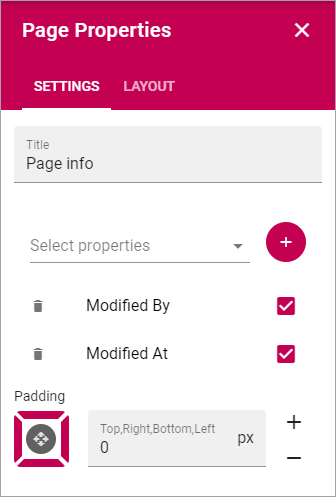
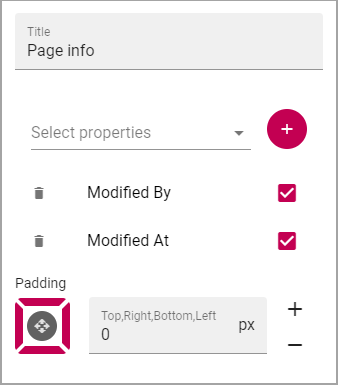
Many settings images updated in Block descriptions

diff --git a/blocks/text/index.rst b/blocks/text/index.rst
@@ -14,7 +14,7 @@ Settings
 *********
 The following settings are available for the block:
 
-.. image:: text-settings.png
+.. image:: text-settings-new.png
 
 + **Title**: To add a title for the block, type the title here.
 + **Property to store data**: Select type of text to be used in this block; Title, Page Content or Page Summary. When one block on the page has data connected to a Property, that data can be reused in all blocks that uses the same Property. Page scoped. Not mandatory.
@@ -22,6 +22,7 @@ The following settings are available for the block:
 
 .. image:: text-setting-format.png
 
++ **Enable Machine Translation**: (A descirption will be added soon.)
 + **Help text**: Here you can add a help text for the editor, for example to make it clear what kind of content should be added to the block. The help text is shown when no content is added, and when the block is edited. The help text is never shown to users as it's not shown for a published version of the page.
 
 Here's an example of help text:

diff --git a/blocks/user-profile-completion/index.rst b/blocks/user-profile-completion/index.rst
@@ -9,7 +9,11 @@ The user can click "Strengthen Profile" to add additional information.
 
 Settings
 ***********************
-The settings available for the block are general settings only, through the Layout and Advanced tabs, see: :doc:`General Block Settings </blocks/general-block-settings/index>`
+The settings available for the block are general settings only, through the Layout and Advanced tabs:
+
+.. image:: user-profile-settings.png
+
+For information about the general settings, see: :doc:`General Block Settings </blocks/general-block-settings/index>`
 
 All settings for the Strengthen Profile content are done in Omnia Admin, see: :doc:`User Profile Settings </admin-settings/tenant-settings/user-profile-completion/index>`
 

diff --git a/blocks/search/index.rst b/blocks/search/index.rst
@@ -5,10 +5,10 @@ The Advanced Search block adds the same search functionality as the Advaced Sear
 
 .. image:: advanced-search-result.png
 
-Regarding settings, the general block settings found under the Layout tab are available:
+Settings
+**********
+You can add a title for the block if needed:
 
-.. image:: advanced-search-settings-block.png
+.. image:: advanced-search-settings-block-new.png
 
-Layout and Advanced
-**********************
 The tabs Layout and Advanced contain general settings, see: :doc:`General Block Settings </blocks/general-block-settings/index>`

diff --git a/blocks/related-links/index.rst b/blocks/related-links/index.rst
@@ -9,7 +9,12 @@ Here's an example of how users will see related links:
 
 Settings
 *********
-(Will be added in just a moment).
+The following settings are available for the block:
+
+.. image:: related-links-settings.png
+
++ **Title**: To add a title for the block, type the title here.
++ **Property to store data**: Select property from the list. When one block on the page has data connected to a property, that data can be reused in all blocks that uses the same property. Page scoped. Not mandatory.
 
 Layout and Advanced
 ---------------------

diff --git a/blocks/page-properties/index.rst b/blocks/page-properties/index.rst
@@ -7,7 +7,7 @@ Use this block to show information about the page, for example when it was last 
 
 The following settings are available for the block:
 
-.. image:: page-properties-settings.png
+.. image:: page-properties-settings-new.png
 
 + **Title**: You can add a title for the block here.
 + **Select Properties**: Use the list the select properties for the information you want to display. Click the plus to add the property, and make sure it's selected.

diff --git a/blocks/variation-selector/index.rst b/blocks/variation-selector/index.rst
@@ -11,7 +11,7 @@ The block will simply show a list of the available Page Variations when opened.
 
 The only setting that can be done for the block is this:
 
-.. image:: page-variation-setting.png
+.. image:: page-variation-setting-new.png
 
 + **Hide if no variations exist for the page**: This option is selected by default. If you want the block to always be shown, even if no Page Variations exists (yet), deselect this option.
 

diff --git a/blocks/people-rollup/index.rst b/blocks/people-rollup/index.rst
@@ -1,13 +1,13 @@
 People Rollup
 ===========================================
 
-**Note! This description is just started. More will be added soon.**
+Use this block to display lists of people, for many various reasons.
 
 Settings
 *************************
 The following settings are available:
 
-.. image:: peoplerollup-settings.png
+.. image:: peoplerollup-settings-new.png
 
 General
 ----------------

diff --git a/blocks/team-news-rollup/index.rst b/blocks/team-news-rollup/index.rst
@@ -7,7 +7,7 @@ Settings
 *********
 The following settings are available:
 
-.. image:: team-news-rollup-settings.png
+.. image:: team-news-rollup-settings-new.png
 
 + **Title**: You can add a title to be shown for the block.
 + **Row Limit**: Decide the number of rows to show for each "page" of the list.

diff --git a/blocks/rss-reader/index.rst b/blocks/rss-reader/index.rst
@@ -15,7 +15,7 @@ The following settings can be used:
 
 Start by selecting "Display" and the rest of the settings will be shown. 
 
-.. image:: rss-reader-settings-1.png
+.. image:: rss-reader-settings-new.png
 
 The following settings are available:
 

diff --git a/blocks/team-collaboration-rollup/index.rst b/blocks/team-collaboration-rollup/index.rst
@@ -15,7 +15,7 @@ Settings
 ************************
 The following settings are available for the block:
 
-.. image:: team-collaboration-block-settings.png
+.. image:: team-collaboration-block-settings-new.png
 
 Query
 --------

diff --git a/blocks/quick-links/index.rst b/blocks/quick-links/index.rst
@@ -9,7 +9,7 @@ Settings
 *********
 The following settings are available for the block:
 
-.. image:: quick-links-settings.png
+.. image:: quick-links-settings-new.png
 
 General
 --------

diff --git a/blocks/task-rollup/index.rst b/blocks/task-rollup/index.rst
@@ -11,7 +11,7 @@ Settings
 *********
 The following settings are available:
 
-.. image:: tasks-rollup-settings-new.png
+.. image:: tasks-rollup-settings-new2.png
 
 General
 ---------
